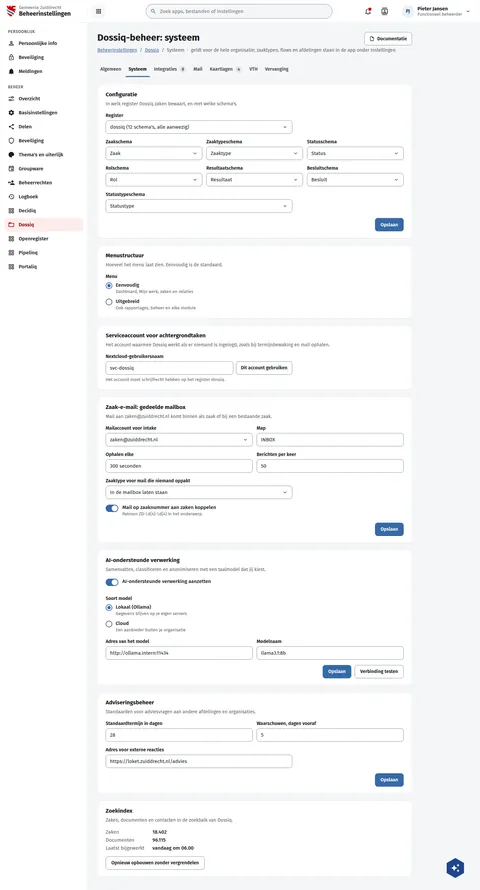
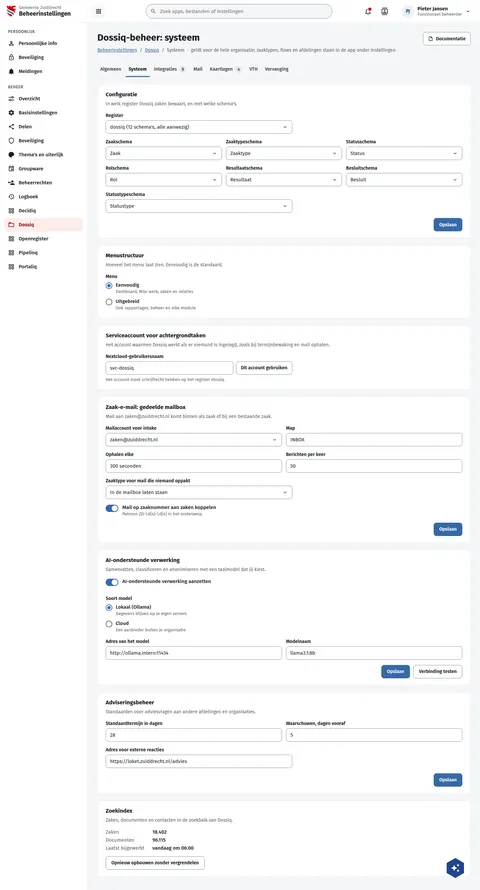
feat(screens): DqBeheerinstellingen draws the admin content 1240px wide
Ruben, 21 Oct: admin content width is 1240. The shared admin part takes a
max-width prop (default 1000px, so LrBeheerinstellingen is unchanged) and
the dossiq board passes 1240px.

Assisted-by: ClaudeCode:claude-opus-5-5

diff --git a/screens-src/zuiddrecht/NcBeheerInstellingen.dc.html b/screens-src/zuiddrecht/NcBeheerInstellingen.dc.html
@@ -19,7 +19,7 @@ a{color:#3669a5}a:hover{color:#234a78}
   <div style="display: flex; flex-wrap: wrap; flex: 1 1 auto">
     <div style="flex: 0 0 264px; width: 264px; display: flex; align-items: stretch"><dc-import name="NcBeheerZijbalk" app="{{ app }}" app-icon="{{ appIcon }}" apps="{{ apps }}" hint-size="264px,832px"></dc-import></div>
     <div style="flex: 999 1 560px; min-width: 0; display: flex; flex-direction: column">
-      <main style="padding: 24px 28px 40px; display: flex; flex-direction: column; gap: 20px; max-width: 1000px; box-sizing: border-box; width: 100%">
+      <main style="{{ mainStyle }}">
         <dc-import name="NcBeheerKop" app="{{ app }}" title="{{ title }}" section="{{ section }}" scope="{{ scope }}" tabs="{{ tabs }}" hint-size="100%,96px"></dc-import>
         <sc-for list="{{ cards }}" as="s" hint-placeholder-count="3">
           <section aria-labelledby="{{ s.id }}" style="background: #ffffff; border: 1px solid #e4e6ea; border-radius: 12px; padding: 20px 24px; display: flex; flex-direction: column; gap: 6px">
@@ -69,7 +69,7 @@ a{color:#3669a5}a:hover{color:#234a78}
   </div>
 </div>
 </x-dc>
-<script type="text/x-dc" data-dc-script data-props='{"app":{"editor":"text","default":"Dossiq"},"appIcon":{"editor":"text","default":""},"apps":{"editor":null,"default":[]},"title":{"editor":"text","default":""},"section":{"editor":"text","default":""},"tabs":{"editor":null,"default":[]},"scope":{"editor":"text","default":"alleen voor beheerders, elke sectie slaat apart op"},"user":{"editor":"text","default":"Pieter Jansen"},"initials":{"editor":"text","default":"PJ"},"role":{"editor":"text","default":"Functioneel beheerder"},"sections":{"editor":null,"default":[]},"$preview":{"width":1440,"height":1400}}'>
+<script type="text/x-dc" data-dc-script data-props='{"app":{"editor":"text","default":"Dossiq"},"maxWidth":{"editor":"text","default":"1000px"},"appIcon":{"editor":"text","default":""},"apps":{"editor":null,"default":[]},"title":{"editor":"text","default":""},"section":{"editor":"text","default":""},"tabs":{"editor":null,"default":[]},"scope":{"editor":"text","default":"alleen voor beheerders, elke sectie slaat apart op"},"user":{"editor":"text","default":"Pieter Jansen"},"initials":{"editor":"text","default":"PJ"},"role":{"editor":"text","default":"Functioneel beheerder"},"sections":{"editor":null,"default":[]},"$preview":{"width":1440,"height":1400}}'>
 class Component extends DCLogic {
   renderVals() {
     // The Nextcloud admin settings page of one app (/settings/admin/<app>), in the frame the other admin boards
@@ -129,7 +129,7 @@ class Component extends DCLogic {
     };
     const raw = Array.isArray(this.props.sections) ? this.props.sections : [];
     const cards = raw.map((s, i) => ({ id: 'nbi-s' + i, name: s.name, desc: s.desc || '', hasDesc: !!s.desc, rows: (s.rows || []).map(row) }));
-    return { app, appIcon: this.props.appIcon || '', apps: Array.isArray(this.props.apps) ? this.props.apps : [], title: this.props.title || '', section: this.props.section || '', tabs: Array.isArray(this.props.tabs) ? this.props.tabs : [],
+    return { app, mainStyle: `padding: 24px 28px 40px; display: flex; flex-direction: column; gap: 20px; max-width: ${this.props.maxWidth || '1000px'}; box-sizing: border-box; width: 100%`, appIcon: this.props.appIcon || '', apps: Array.isArray(this.props.apps) ? this.props.apps : [], title: this.props.title || '', section: this.props.section || '', tabs: Array.isArray(this.props.tabs) ? this.props.tabs : [],
       scope: this.props.scope || 'alleen voor beheerders, elke sectie slaat apart op', user: this.props.user || 'Pieter Jansen', initials: this.props.initials || 'PJ', role: this.props.role || 'Functioneel beheerder', cards };
   }
 }

diff --git a/screens-src/zuiddrecht/DqBeheerinstellingen.dc.html b/screens-src/zuiddrecht/DqBeheerinstellingen.dc.html
@@ -13,7 +13,7 @@
 body{margin:0}
 </style>
 </helmet>
-<dc-import name="NcBeheerInstellingen" app="Dossiq" app-icon="M20,18H4V8H20M20,6H12L10,4H4C2.89,4 2,4.89 2,6V18A2,2 0 0,0 4,20H20A2,2 0 0,0 22,18V8C22,6.89 21.1,6 20,6Z" apps="{{ apps }}" title="Dossiq-beheer: systeem" section="Systeem" tabs="{{ tabs }}" scope="geldt voor de hele organisatie; zaaktypen, flows en afdelingen staan in de app onder Instellingen" sections="{{ sections }}" hint-size="100%,2400px"></dc-import>
+<dc-import name="NcBeheerInstellingen" app="Dossiq" max-width="1240px" app-icon="M20,18H4V8H20M20,6H12L10,4H4C2.89,4 2,4.89 2,6V18A2,2 0 0,0 4,20H20A2,2 0 0,0 22,18V8C22,6.89 21.1,6 20,6Z" apps="{{ apps }}" title="Dossiq-beheer: systeem" section="Systeem" tabs="{{ tabs }}" scope="geldt voor de hele organisatie; zaaktypen, flows en afdelingen staan in de app onder Instellingen" sections="{{ sections }}" hint-size="100%,2400px"></dc-import>
 </x-dc>
 <script type="text/x-dc" data-dc-script data-props='{"$preview":{"width":1440,"height":2400}}'>
 class Component extends DCLogic {

diff --git a/preview/screens/boards/DqBeheerinstellingen.html b/preview/screens/boards/DqBeheerinstellingen.html
@@ -68,7 +68,7 @@ a{color:var(--sc-primary, #3669a5)}a:hover{color:var(--sc-primary-deep, #234a78)
 </nav>
 </div>
     <div style="flex: 999 1 560px; min-width: 0; display: flex; flex-direction: column">
-      <main style="padding: 24px 28px 40px; display: flex; flex-direction: column; gap: 20px; max-width: 1000px; box-sizing: border-box; width: 100%">
+      <main style="padding: 24px 28px 40px; display: flex; flex-direction: column; gap: 20px; max-width: 1240px; box-sizing: border-box; width: 100%">
         
 
 <div style="font-family: var(--sc-font, 'Fira Sans'), system-ui, sans-serif; color: var(--sc-work-ink, #1b1c1d); display: flex; flex-direction: column; gap: 20px">
